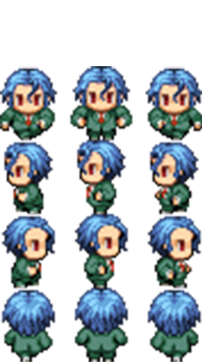
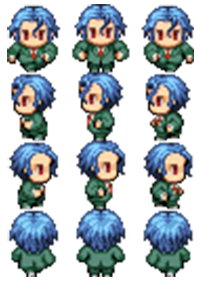
refactor: Change code style

diff --git a/src/feature/room/Room.js b/src/feature/room/Room.js
@@ -12,10 +12,10 @@ import Character from "./Character";
 
 const Room = () => {
   const char = useCharacter("교감쌤");
-  const [moveCount, setMoveCount] = useState(0);
   const { roomId } = useParams();
-  const [title, setTitle] = useState("");
   const roomList = useSelector((state) => state.room.roomList);
+  const [moveCount, setMoveCount] = useState(0);
+  const [title, setTitle] = useState("");
 
   useEffect(() => {
     roomList.forEach((room) => {
@@ -70,7 +70,7 @@ const Room = () => {
     });
   };
 
-  const onRoomsPage = () => {
+  const handleRoomsPage = () => {
     history.push("/");
   };
 
@@ -127,7 +127,7 @@ const Room = () => {
           rightOnClick={handleLogout}
           title={title}
           text="방 리스트로 가기"
-          leftOnClick={onRoomsPage}
+          leftOnClick={handleRoomsPage}
         />
         <Section>
           <Character

diff --git a/src/common/components/Profile.js b/src/common/components/Profile.js
@@ -7,7 +7,7 @@ const Profile = ({ type, text, left, top }) => {
   return (
     <Container left={left} top={top}>
       <ProfileImageWrapper>
-        <img src={type} />
+        <img src={type} alt="카카오톡 프로필 이미지" />
       </ProfileImageWrapper>
       <UserName>
         <ChatOn />
@@ -34,14 +34,14 @@ const UserName = styled.h3`
   margin-top: 10px;
   padding: 5px 5px;
   border-radius: 46px;
-  text-overflow: ellipsis;
-  white-space: nowrap;
   background-color: var(--black-color);
-  overflow: hidden;
   color: var(--white-color);
   font-size: 15px;
   text-align: center;
+  text-overflow: ellipsis;
   opacity: 0.6;
+  overflow: hidden;
+  white-space: nowrap;
 `;
 
 const ChatOn = styled.span`

diff --git a/public/index.html b/public/index.html
@@ -4,7 +4,7 @@
 <head>
   <meta charset="utf-8" />
   <link rel="icon" href="%PUBLIC_URL%/favicon.ico" />
-  <link rel="icon" type="image/png" sizes="32x32" href="/favicon-32x32.png">
+  <link rel="icon" sizes="32x32" href="/logo.svg">
   <meta name="viewport" content="width=device-width, initial-scale=1" />
   <meta name="theme-color" content="#000000" />
   <meta name="description" content="Web site created using create-react-app" />

diff --git a/src/feature/room/Character.js b/src/feature/room/Character.js
@@ -8,10 +8,10 @@ import Profile from "../../common/components/Profile";
 
 const Character = ({ count, isChatting, x, y, side, name }) => {
   const sides = {
-    down: [-67, -70],
-    left: [-140, -70],
-    right: [-214, -70],
-    up: [-290, -70],
+    down: [0, -70],
+    left: [-70, -70],
+    right: [-141, -70],
+    up: [-208, -70],
   };
   const user = useSelector((state) => state.auth.user);
 
